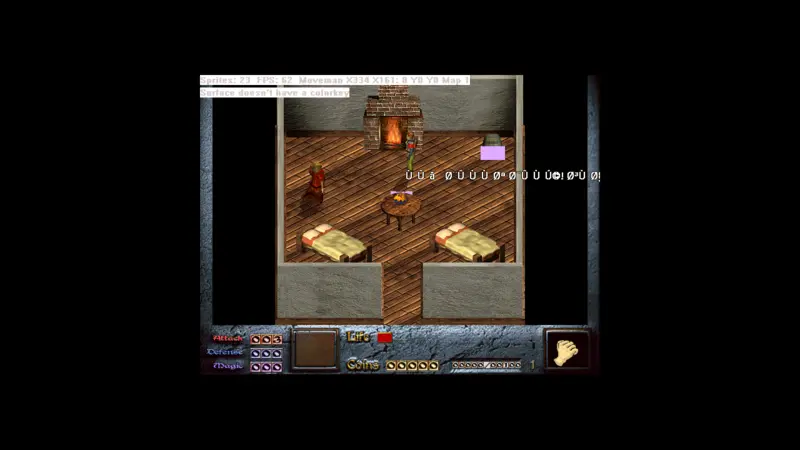
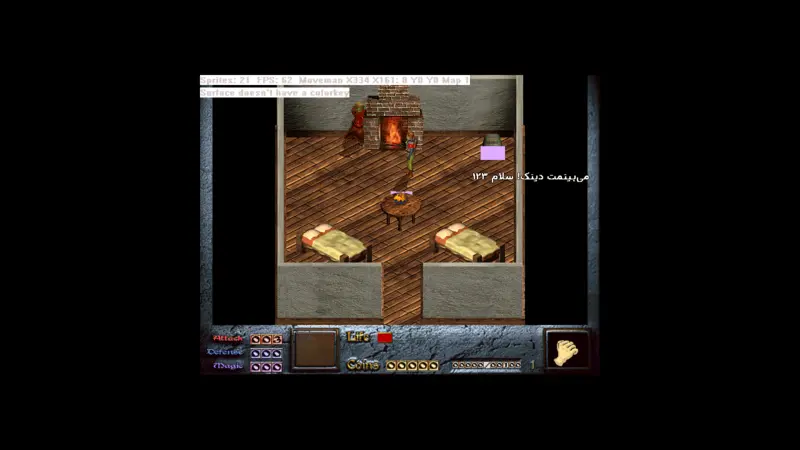
docs(roadmap): tick 2-1..2-3 (Persian rendering proven in-game); add modern-features pack (2.5) & balance phase (5.5)

Changed region(s): [[0.5, 0.3733, 0.75, 0.4044], [0.4062, 0.2178, 0.5, 0.3422], [0.375, 0.3422, 0.4062, 0.4978]]

diff --git a/ROADMAP.md b/ROADMAP.md
@@ -51,9 +51,9 @@
 ## فاز ۲ — آمادهسازی ریمیک در سطح موتور (هنوز دسکتاپ، موازی مجاز با ۱-۵ به بعد)
 > هر قابلیتی که داستان جدید لازم دارد، اینجا به موتور اضافه میشود تا روی اندروید فقط «پورت» کنیم.
 
-- [ ] ۲-۱. شاخه `remake` در گیت + پوشه D-Mod جدید `gamedata/pigkeeper/` (داستان جدید = ماد مستقل، دیتای اصلی دست نمیخورد)
-- [ ] ۲-۲. رندر متن یونیکد: تعویض مسیر رندر فونت به SDL2_ttf با **شکلدهی فارسی** (HarfBuzz + FriBidi یا پیادهسازی سبک shaping داخلی) — معیار پذیرش: «میبینمت» با حروفِ چسبیده و راستبهچپ درست رندر شود
-- [ ] ۲-۳. فونت فارسی: **Vazirmatn** (OFL — آزاد) + فونت پیکسلی فارسی برای اعداد آسیب؛ ثبت لایسنس
+- [x] ۲-۱. پوشه D-Mod ریمیک `pigkeeper/` (داستان جدید = ماد مستقل روی دیتای پایه؛ `Story/` + `data/` برای جدولهای بالانس) — روی `main` ✅
+- [x] ۲-۲. رندر متن فارسی ✅ — **شکلدهنده داخلی بدون وابستگی** در `gfx_fonts.cpp` (جدول فرمهای نمایشی FB50/FE70، اتصال چهارحالته، لامالف، ZWNJ، بایدای سبک با رانهای LTR برای اعداد) + فیکس ریشهای دابل-انکد `latin1_to_utf8` (تشخیص UTF-8 معتبر). **اثبات داخل بازی:** `docs/proof/smoke_persian.webp` — «میبینمت دینک! سلام ۱۲۳» چسبیده و RTL 🟢 (مزیت اندروید: صفر وابستگی جدید NDK)
+- [x] ۲-۳. فونت **Vazirmatn v33** (OFL) در `fonts/` + لایسنس + مکانیزم `FREEDINK_FONT` در موتور برای override فونت پیشفرض ✅ (فونت پیکسلی اعداد آسیب → موکول به M2)
 - [ ] ۲-۴. سیستم دیالوگ v2: قاب دیالوگ راستبهچین با مارجین استاندارد، نام گوینده، پرتره شخصیت، تایپرایتر افکت قابلردشدن
 - [ ] ۲-۵. منوی اصلی/مکث بازطراحیشده RTL (ادامه، سیو، تنظیمات، خروج) + اعداد فارسی
 - [ ] ۲-۶. سیستم سیو مدرن: ۸ اسلات + اتوسیو + ذخیره نسخهدار (سازگار با قطع برق/کرش)
